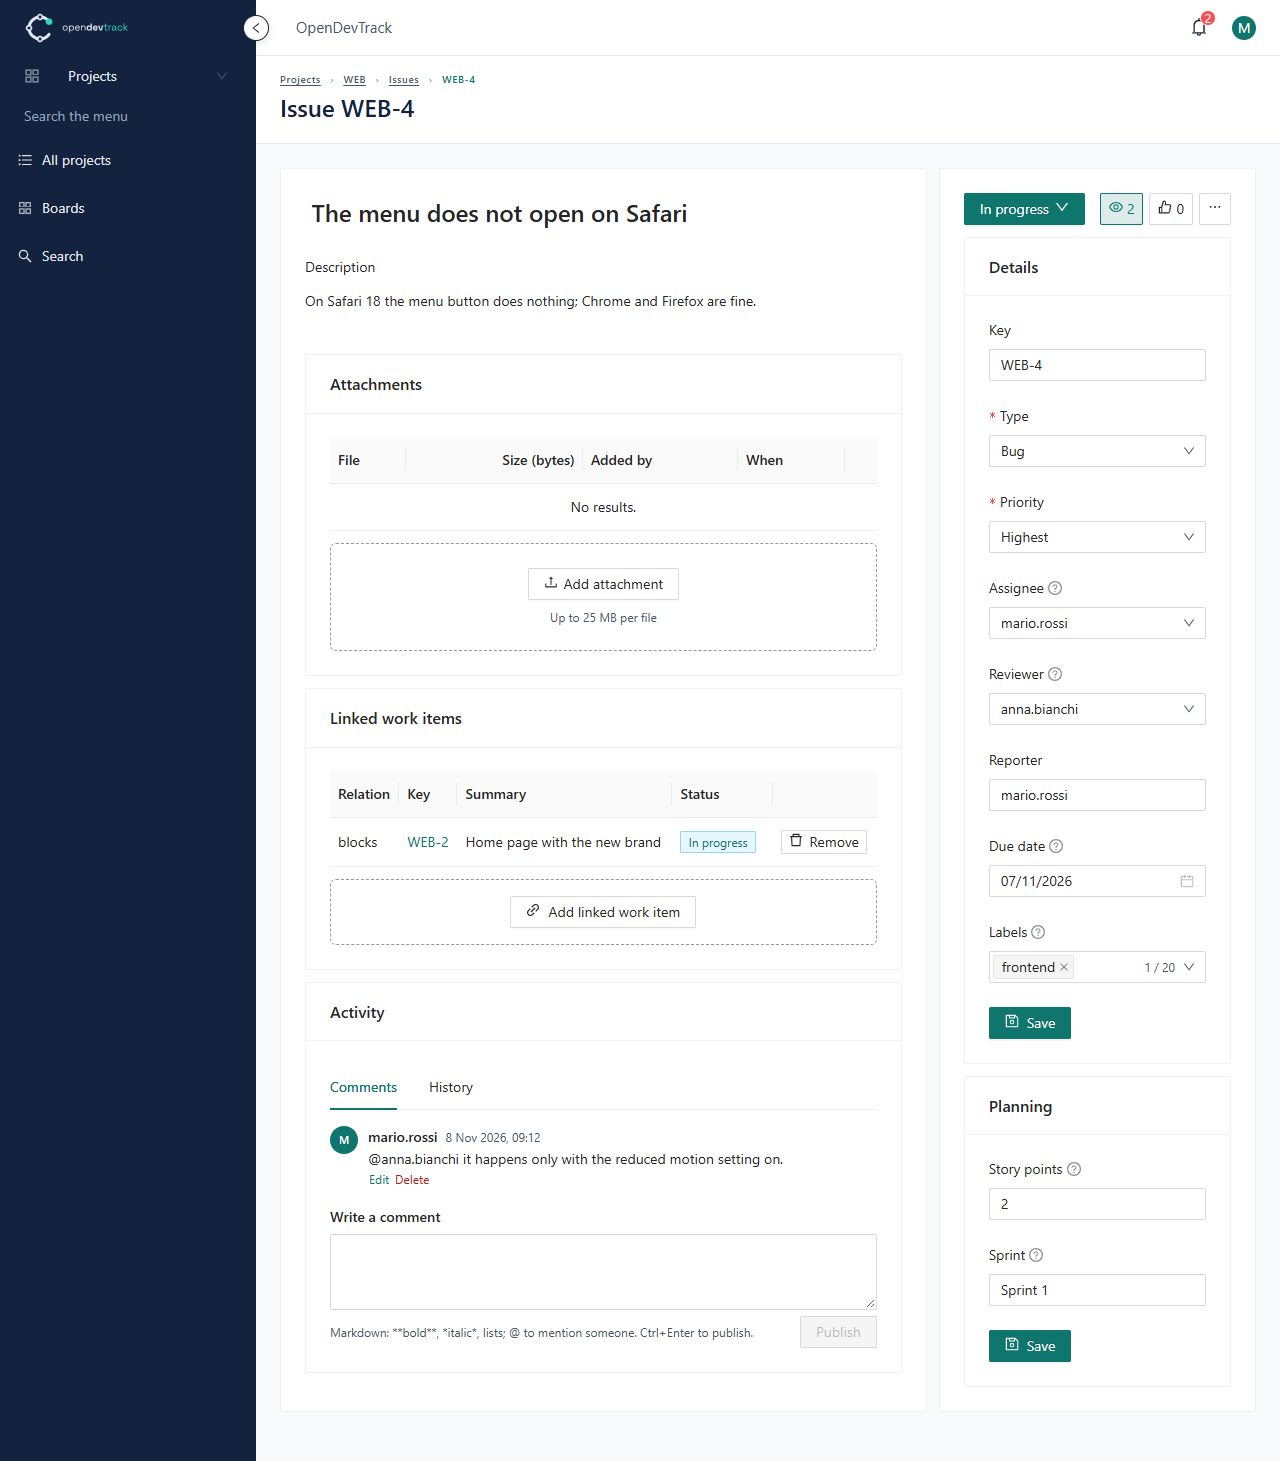
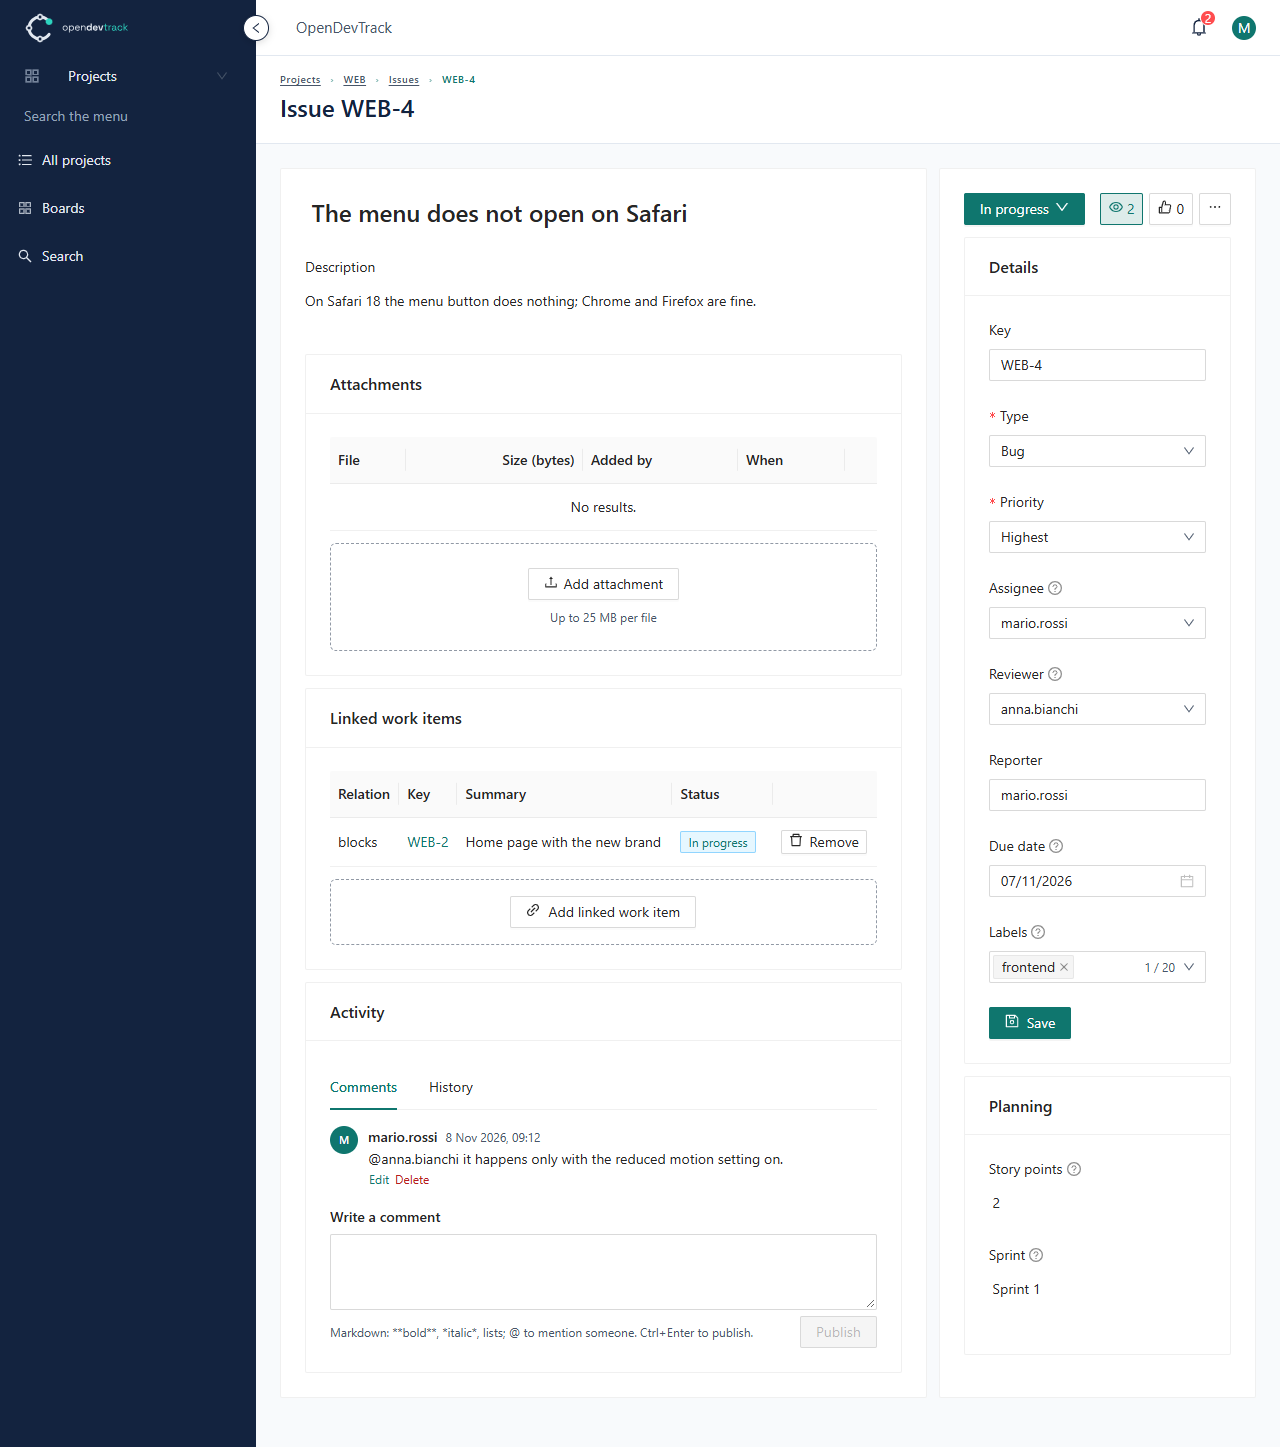
feat(ui): the story points edited in place, as in Jira
Under «Planning» the story points read as text and are changed in place
like the summary: a click opens them, ✓ or Enter saves them on their own,
✕ or Escape cancels. The «Save» button of the box goes; an empty value
shows «None».

Quadrava 0.27.0 hands a number cleared in place to the steps as an empty
text, which the back end refuses: the body of savePlan turns it into null
until Quadrava fixes it (asked in Q44, with the lookup and checkbox fields
the Details box needs to be edited in place too).

Refs #54.

diff --git a/docs/README.md b/docs/README.md
@@ -80,6 +80,7 @@ Found while writing the ADRs; each is built in its own repository, optional for 
 | Q41 | Quadrava | The flag and the votes as in Jira: the icons `flag` and `like`, a `tone` on a pressed button (the red flag), a `popover` step anchored to the button that ran it (the «Flag added» panel with its optional comment) (asked by the maintainer; issue #51; asked 26 November 2026; released in 0.25.0, adopted as 0.25.1) | F5 |
 | Q42 | Quadrava | Attachments as in Jira: a `dropzone` display for the file field, a dashed area with its button centred and files dropped on it, and a dashed `box` for «Add linked work item» (asked by the maintainer; issue #52; asked 26 November 2026; released in 0.26.0) | F5 |
 | Q43 | Quadrava | The summary and the description edited in place, as in Jira: fields shown as text that become their editor on click, the summary with confirm and cancel icons, the description with «Save» and «Cancel», each saved on its own (asked by the maintainer; issue #53; asked 26 November 2026; released in 0.27.0) | F5 |
+| Q44 | Quadrava | The Details of an issue edited in place, as in Jira: `lookup` fields (assignee, reviewer, custom user fields) opened as a searchable list that confirms on pick, `checkbox` and `switch` fields saved when toggled, fields from a data source as in `fields`; and two fixes to numbers edited in place, an empty value sent as null and Escape after a failed check putting back the old value (asked by the maintainer; issue #54; asked 26 November 2026) | F5 |
 | A1 | authz-library | Extension point for permissions that depend on a resource (ADR-07; until then `_perm` on rows and forms; released in authz-library 2.2.0, `PermissionContributor`, and adopted: `project/ProjectPermissions` decides `/authz/check` for a project or an issue; `_perm` stays for the screens) | F2 |
 | A2 | authz-library | A configurable schema for the RBAC tables (today they go into `public`, next to the `odt_*` schemas of the modules; released in authz-library 2.2.0, `authz.rbac.schema`, and adopted: schema `authz`) | F1 |
 | A3 | authz-library | Problem titles and details in English (today Italian, for example «Troppi tentativi di accesso»); released in authz-library 2.1.0 and adopted (2.2.0) | F5 |

diff --git a/ui/README.md b/ui/README.md
@@ -40,7 +40,9 @@ loads them from the registry of the back end (module `uiregistry`, ADR-03).
 - **Issue page**: `issue-detail` is a `grid` of 12 columns, as the page of a work item in Jira: on the left (8)
   the summary and the description, a form with `edit: inline` (Quadrava 0.27.0, Q43): the summary with `display: heading`,
   each field saved on its own by `onSave` with `saveContent`, then the sections Attachments, Linked work items and Activity (tabs Comments and
-  History); on the right (4) a row with the status and, as icons, the flag, the menu Watchers, the votes and the menu More actions, then Details and Planning. The two menus are `menuButton`s with `display: icon` (Quadrava 0.24.0, Q40): the eye with `count` (the
+  History); on the right (4) a row with the status and, as icons, the flag, the menu Watchers, the votes and the menu More actions, then Details and Planning. Planning is a form with `edit: inline` too, the story points saved on their own by
+  `onSave` with `savePlan`; its body turns an empty value into null, because a number cleared in place reaches the
+  steps as an empty text in Quadrava 0.27.0 (asked to be fixed in Q44; to be removed with it). The two menus are `menuButton`s with `display: icon` (Quadrava 0.24.0, Q40): the eye with `count` (the
   watchers) and `pressed` (watching), whose menu has watch or stop and «Watchers», a `view` step with the table of
   the watchers and «Add watcher…», and «…» with Delete in `tone: danger`. The flag
   and the votes are `button`s (Quadrava 0.25.1, Q41): the flag with `tone: danger` and `pressed`, shown only while

diff --git a/docs/guide/issues.md b/docs/guide/issues.md
@@ -68,8 +68,8 @@ On the right is what describes it:
   comments, attachments and links of the issue go with it;
 - **Details**: its key, type, priority, assignee, reviewer, reporter, due date, labels and custom fields,
   saved with their own «Save»;
-- **Planning**: its story points (0 to 999, empty when not estimated) and the sprint it is planned in, with their own
-  «Save».
+- **Planning**: its story points (0 to 999, empty when not estimated), changed in place like the summary: a click
+  opens them, ✓ or Enter saves them, ✕ or Escape cancels; and the sprint it is planned in.
 
 Each «Save» saves only its own box or field, and shows the issue again as saved. If someone else saved the issue in the
 meantime, saving says so: reload it and make the change again, so that no change is lost.

diff --git a/CHANGELOG.md b/CHANGELOG.md
@@ -18,6 +18,7 @@ The entries are written by hand at each release from the commits ([docs/release.
 - **Issues**: the summary, as a title, and the description read as text and are changed in place, as in Jira: a click
   opens one of them, the summary is confirmed with ✓ or Enter, the description with «Save» or Ctrl+Enter, and each is
   saved on its own; the «Save» button of the two goes (#53).
+- **Issues**: the story points, under «Planning», are changed in place in the same way, with no «Save» (#54).
 - Quadrava 0.27.0 (runtime image and CLI): the drop zone of a file field and the dashed box (Q42, 0.26.0), editing in
   place in a form (Q43).
 
